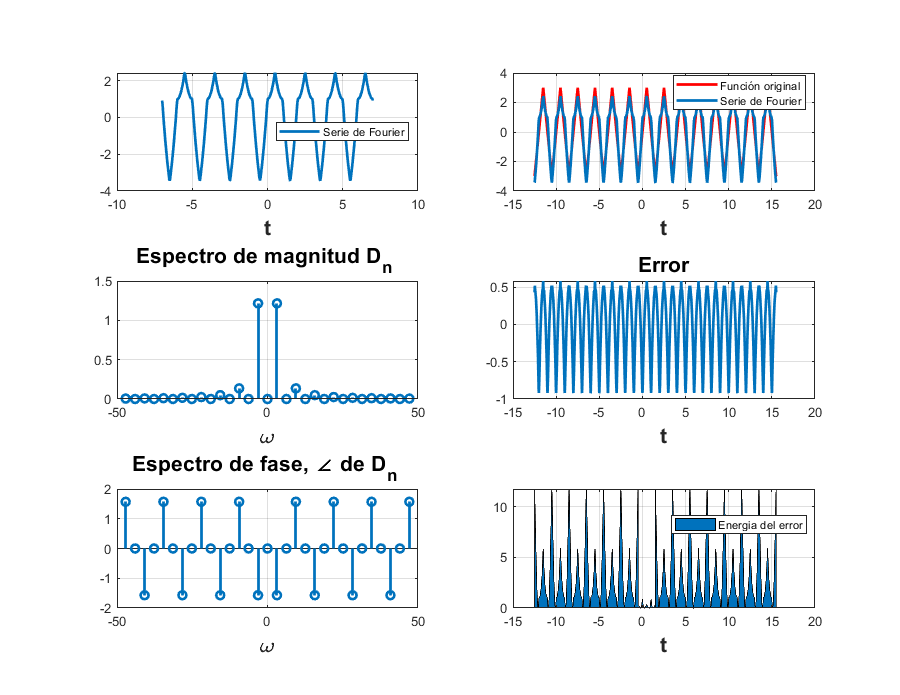
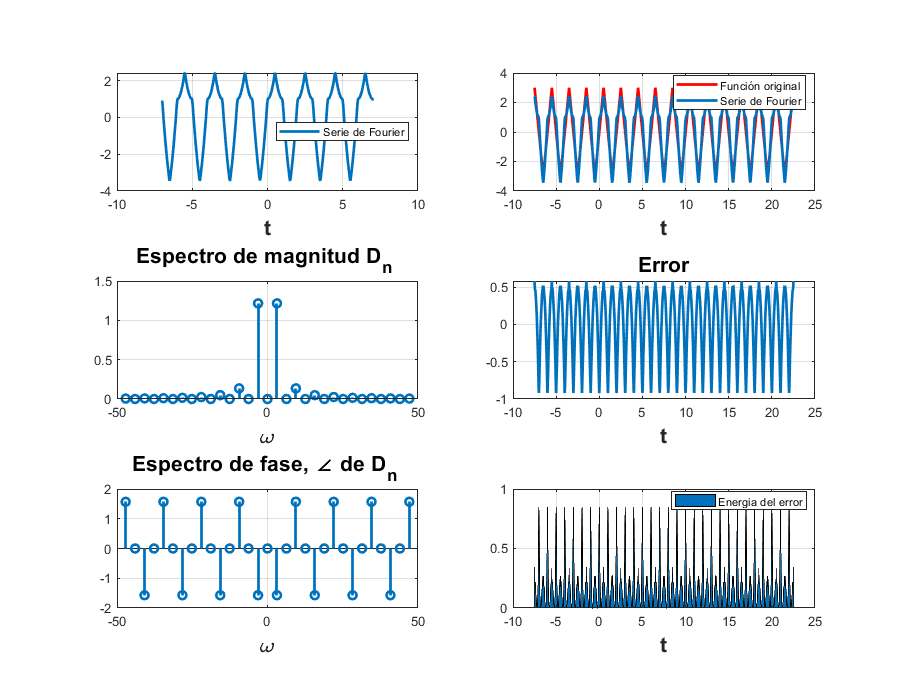
04

diff --git a/index.html b/index.html
@@ -23,6 +23,7 @@
     <img src="01.PNG" class="responsive2">
     <img src="02.PNG" class="responsive2">
     <img src="03.PNG" class="responsive2">
+    <img src="03.PNG" class="responsive2">
 <h1 id ="gg">Ejemplo 6.1</h1> 
     <div class="content"><pre class="codeinput">d0=0.5043;
 a=-7;
@@ -80,12 +81,16 @@ f=@(t) ((t&gt;-0.5)&amp;(t&lt;=0.5)).*(6*t) + ((0.5&lt;t)&amp;(1.5&gt;=t)).*(6*(
 cn=@(n) (8*3)/((pi*n)^2);
 
 sfcc(t0,tf,cn,c0,f,armo,a,b)
-</pre><pre class="codeoutput">C(-3) = 8.2722e-18+0.13509i
-C(-1) = 7.445e-17-1.2159i
-C(0) = 0
-C(1) = 7.445e-17-1.2159i
-C(3) = 8.2722e-18+0.13509i
-</pre><img vspace="5" hspace="5" src="Segundoejemplo_01.png" alt=""> 
+</pre><pre class="codeoutput">D(-4) = 0
+D(-3) = 8.2722e-18+0.13509i
+D(-2) = 0
+D(-1) = 7.445e-17-1.2159i
+D(0) = 0
+D(1) = 7.445e-17-1.2159i
+D(2) = 0
+D(3) = 8.2722e-18+0.13509i
+D(4) = 0
+</pre><img vspace="5" hspace="5" src="Segundoejemplo_01.png" alt=""> <p class="footer"><br>
                 
 <div class="content"><pre class="codeinput">t0=-0.5;
 tf=1.5;
@@ -97,22 +102,107 @@ f=@(t) ((t&gt;-0.5)&amp;(t&lt;=0.5)).*(6*t) + ((0.5&lt;t)&amp;(1.5&gt;=t)).*(6*(
 cn=@(n) (8*3)/((pi*n)^2);
 
 sfcc(t0,tf,cn,c0,f,armo,a,b)
-</pre><pre class="codeoutput">C(-15) = 3.3089e-19+0.0054038i
-C(-13) = 4.4053e-19-0.0071944i
-C(-11) = 6.1529e-19+0.010048i
-C(-9) = 9.1913e-19-0.015011i
-C(-7) = 1.5194e-18+0.024813i
-C(-5) = 2.978e-18-0.048634i
-C(-3) = 8.2722e-18+0.13509i
-C(-1) = 7.445e-17-1.2159i
-C(0) = 0
-C(1) = 7.445e-17-1.2159i
-C(3) = 8.2722e-18+0.13509i
-C(5) = 2.978e-18-0.048634i
-C(7) = 1.5194e-18+0.024813i
-C(9) = 9.1913e-19-0.015011i
-C(11) = 6.1529e-19+0.010048i
-C(13) = 4.4053e-19-0.0071944i
-C(15) = 3.3089e-19+0.0054038i
+</pre><pre class="codeoutput">D(-15) = 3.3089e-19+0.0054038i
+D(-14) = 0
+D(-13) = 4.4053e-19-0.0071944i
+D(-12) = 0
+D(-11) = 6.1529e-19+0.010048i
+D(-10) = 0
+D(-9) = 9.1913e-19-0.015011i
+D(-8) = 0
+D(-7) = 1.5194e-18+0.024813i
+D(-6) = 0
+D(-5) = 2.978e-18-0.048634i
+D(-4) = 0
+D(-3) = 8.2722e-18+0.13509i
+D(-2) = 0
+D(-1) = 7.445e-17-1.2159i
+D(0) = 0
+D(1) = 7.445e-17-1.2159i
+D(2) = 0
+D(3) = 8.2722e-18+0.13509i
+D(4) = 0
+D(5) = 2.978e-18-0.048634i
+D(6) = 0
+D(7) = 1.5194e-18+0.024813i
+D(8) = 0
+D(9) = 9.1913e-19-0.015011i
+D(10) = 0
+D(11) = 6.1529e-19+0.010048i
+D(12) = 0
+D(13) = 4.4053e-19-0.0071944i
+D(14) = 0
+D(15) = 3.3089e-19+0.0054038i
 </pre><img vspace="5" hspace="5" src="Segundoejemplo11_01.png" alt="">
+    
+     <h1 id ="gg">Ejemplo 6.3</h1> 
+    
+    
+<div class="content"><pre class="codeinput">cn=@(n) 2/(pi*n);
+f=@(t) ((t&lt;=(pi/2))&amp;(t&gt;(-pi/2))).*1 + (((pi/2)&lt;t)&amp;(t&lt;=(3*pi)/2)).*0;
+t0=-pi;
+tf=pi;
+c0=1/2;
+armo=4;
+a=-7;
+b=7;
+tn=-pi;
+
+sfccc(t0,tf,cn,c0,f,armo,a,b,tn)
+</pre><pre class="codeoutput">D(-4) = 0
+D(-3) = 0.1061-1.2994e-17i
+D(-2) = 0
+D(-1) = -0.31831
+D(0) = 0.5
+D(1) = 0.31831
+D(2) = 0
+D(3) = -0.1061-1.2994e-17i
+D(4) = 0
+</pre><img vspace="5" hspace="5" src="Tercerejemplo_01.png" alt="">
+    
+    
+<div class="content"><pre class="codeinput">cn=@(n) 2/(pi*n);
+f=@(t) ((t&lt;=(pi/2))&amp;(t&gt;(-pi/2))).*1 + (((pi/2)&lt;t)&amp;(t&lt;=(3*pi)/2)).*0;
+t0=-pi;
+tf=pi;
+c0=1/2;
+armo=15;
+a=-7;
+b=7;
+tn=-pi;
+
+sfccc(t0,tf,cn,c0,f,armo,a,b,tn)
+</pre><pre class="codeoutput">D(-15) = 0.021221-2.5988e-18i
+D(-14) = 0
+D(-13) = -0.024485
+D(-12) = 0
+D(-11) = 0.028937-3.5438e-18i
+D(-10) = 0
+D(-9) = -0.035368
+D(-8) = 0
+D(-7) = 0.045473-5.5688e-18i
+D(-6) = 0
+D(-5) = -0.063662
+D(-4) = 0
+D(-3) = 0.1061-1.2994e-17i
+D(-2) = 0
+D(-1) = -0.31831
+D(0) = 0.5
+D(1) = 0.31831
+D(2) = 0
+D(3) = -0.1061-1.2994e-17i
+D(4) = 0
+D(5) = 0.063662
+D(6) = 0
+D(7) = -0.045473-5.5688e-18i
+D(8) = 0
+D(9) = 0.035368
+D(10) = 0
+D(11) = -0.028937-3.5438e-18i
+D(12) = 0
+D(13) = 0.024485
+D(14) = 0
+D(15) = -0.021221-2.5988e-18i
+</pre><img vspace="5" hspace="5" src="Tercerejemplo11_01.png" alt="">
+    
 </body></html>
